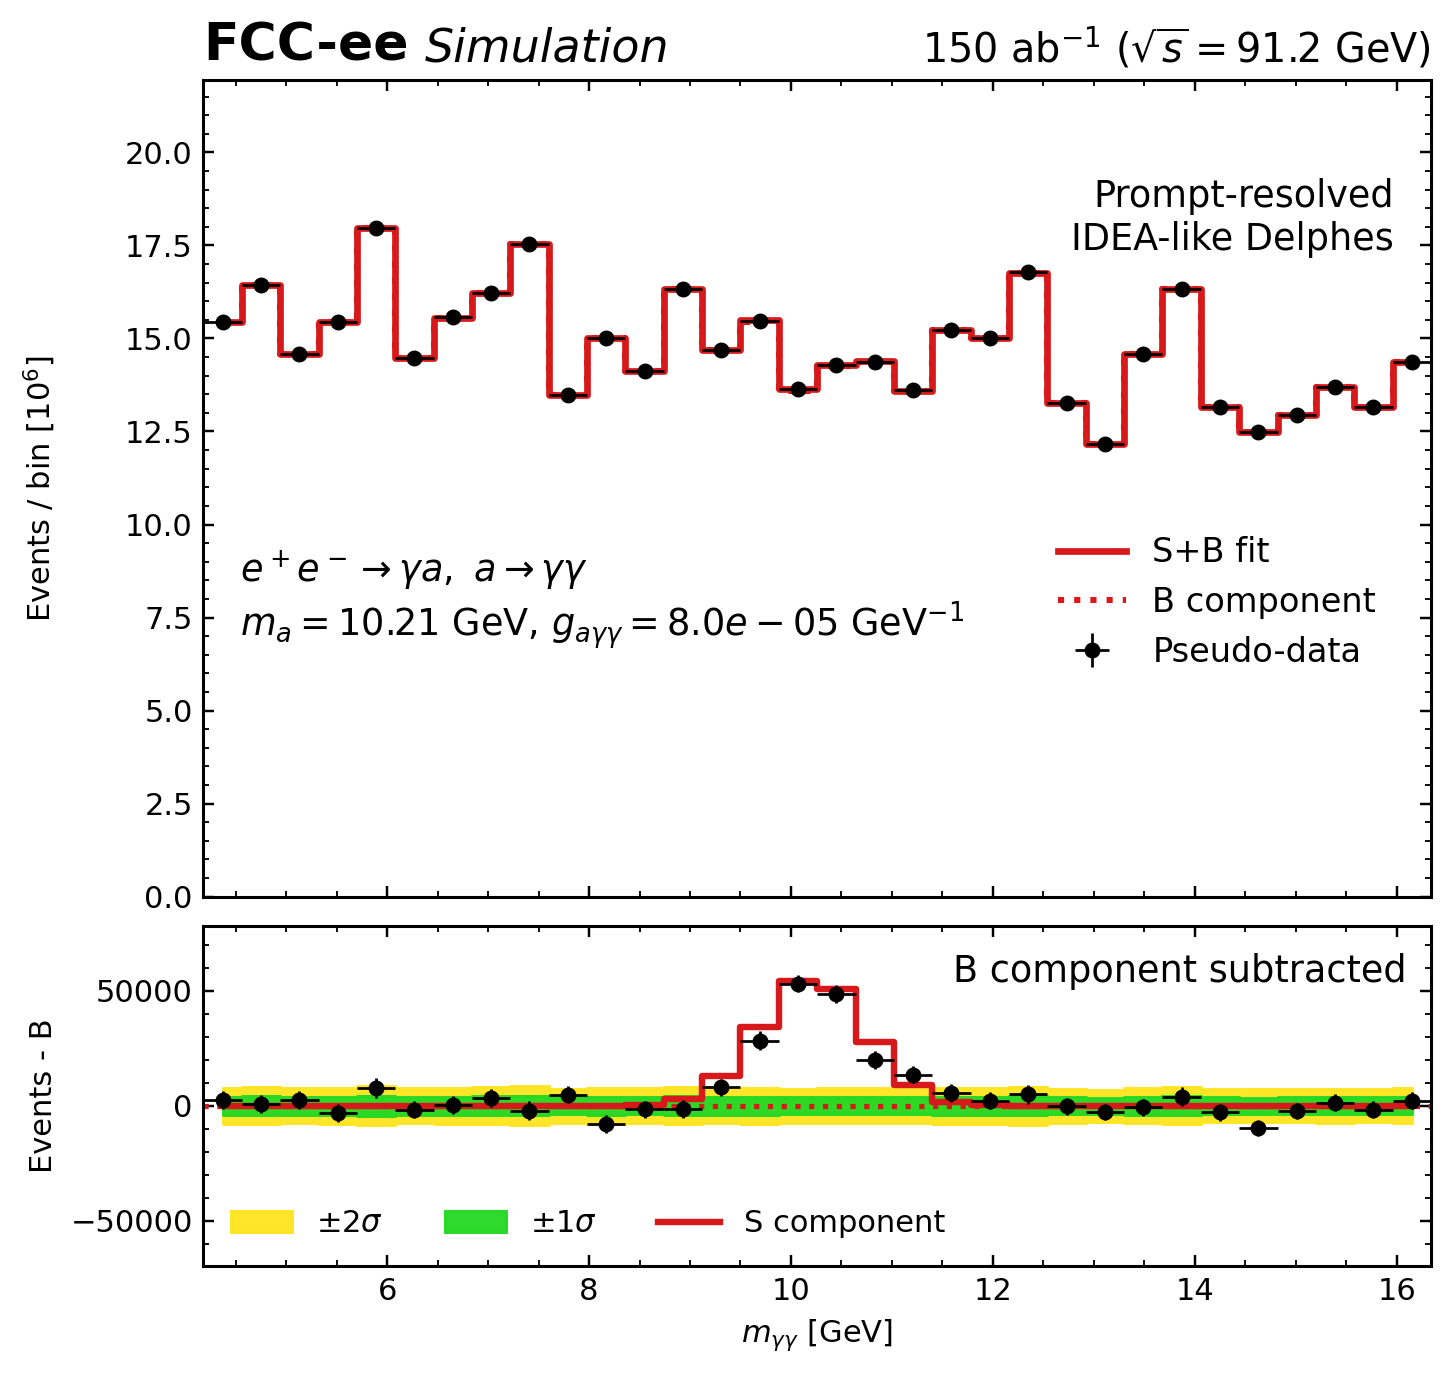
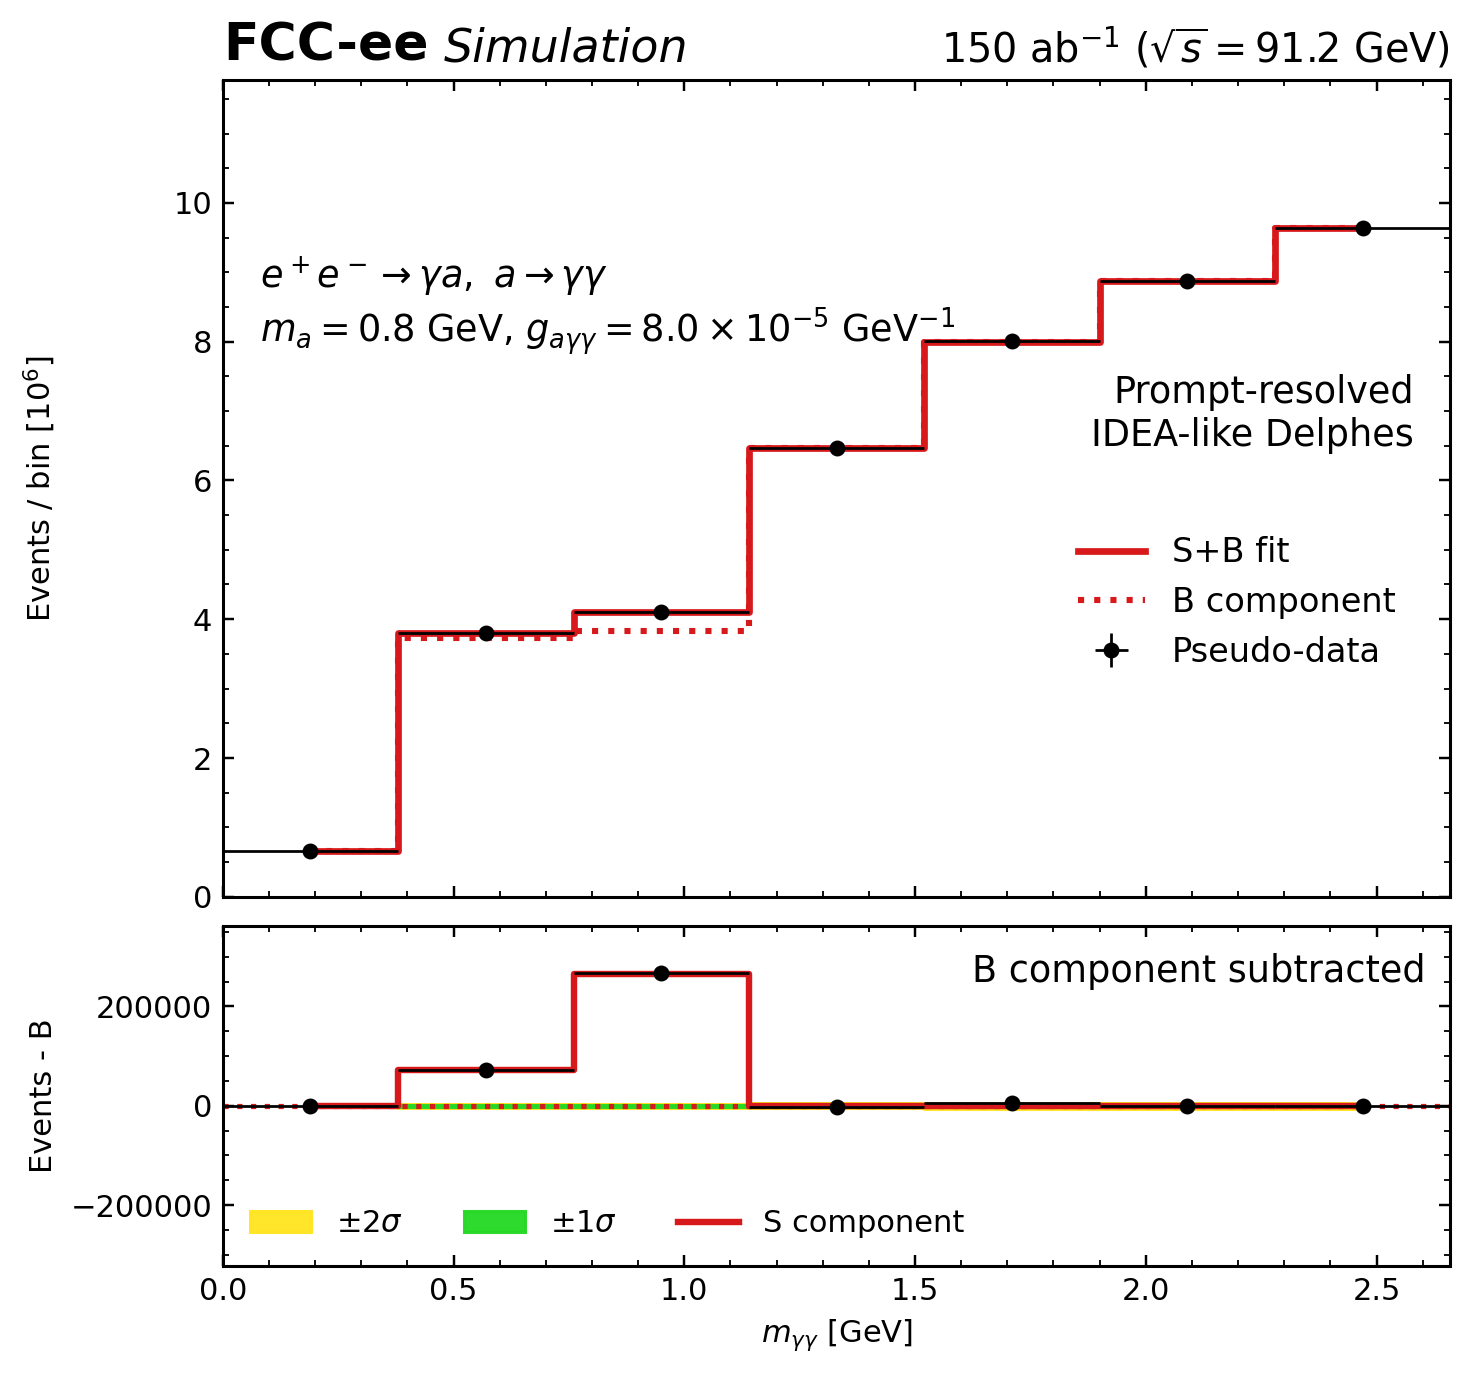
Improve prompt resolved mass example

diff --git a/analysis/plot_prompt_resolved_invariant_mass.py b/analysis/plot_prompt_resolved_invariant_mass.py
@@ -63,6 +63,15 @@ def poisson_errors(counts: np.ndarray) -> np.ndarray:
     return np.sqrt(np.maximum(counts, 1.0))
 
 
+def latex_scientific(value: float) -> str:
+    """Format a number as compact scientific notation for mathtext labels."""
+    if value == 0.0:
+        return "0"
+    exponent = int(math.floor(math.log10(abs(value))))
+    mantissa = value / (10.0**exponent)
+    return rf"{mantissa:.1f}\times10^{{{exponent}}}"
+
+
 def load_resolved_background(config: dict[str, Any], path: Path | None) -> pd.DataFrame:
     bins = load_background_bins(config, path)
     if bins is None:
@@ -254,18 +263,20 @@ def make_plot(
         ha="right",
         va="bottom",
     )
+    process_label_y = 0.66 if float(window["bin_high_GeV"].max()) <= 3.5 else 0.30
     ax.text(
         0.03,
-        0.30,
+        process_label_y,
         r"$e^+e^-\to\gamma a,\ a\to\gamma\gamma$" "\n"
-        rf"$m_a={m_a:g}$ GeV, $g_{{a\gamma\gamma}}={g_agg:.1e}$ GeV$^{{-1}}$",
+        rf"$m_a={m_a:g}$ GeV, $g_{{a\gamma\gamma}}={latex_scientific(g_agg)}$ GeV$^{{-1}}$",
         transform=ax.transAxes,
         fontsize=12,
         va="bottom",
     )
+    topology_label_y = 0.64 if float(window["bin_high_GeV"].max()) <= 3.5 else 0.88
     ax.text(
         0.97,
-        0.88,
+        topology_label_y,
         "Prompt-resolved\nIDEA-like Delphes",
         transform=ax.transAxes,
         fontsize=12,

diff --git a/README.md b/README.md
@@ -261,8 +261,10 @@ Build a CMS-style prompt-resolved invariant-mass plot for one ALP point:
 
 ```bash
 .venv/bin/python analysis/plot_prompt_resolved_invariant_mass.py \
-  --mass 10.21 \
+  --mass 0.8 \
   --coupling 8e-5 \
+  --x-min 0.0 \
+  --x-max 2.5 \
   --out results/fccee/prompt_resolved_invariant_mass_example.png
 ```
 

diff --git a/analysis/README.md b/analysis/README.md
@@ -212,8 +212,10 @@ Prompt-resolved invariant-mass example:
 
 ```bash
 .venv/bin/python analysis/plot_prompt_resolved_invariant_mass.py \
-  --mass 10.21 \
+  --mass 0.8 \
   --coupling 8e-5 \
+  --x-min 0.0 \
+  --x-max 2.5 \
   --out results/fccee/prompt_resolved_invariant_mass_example.png
 ```
 
